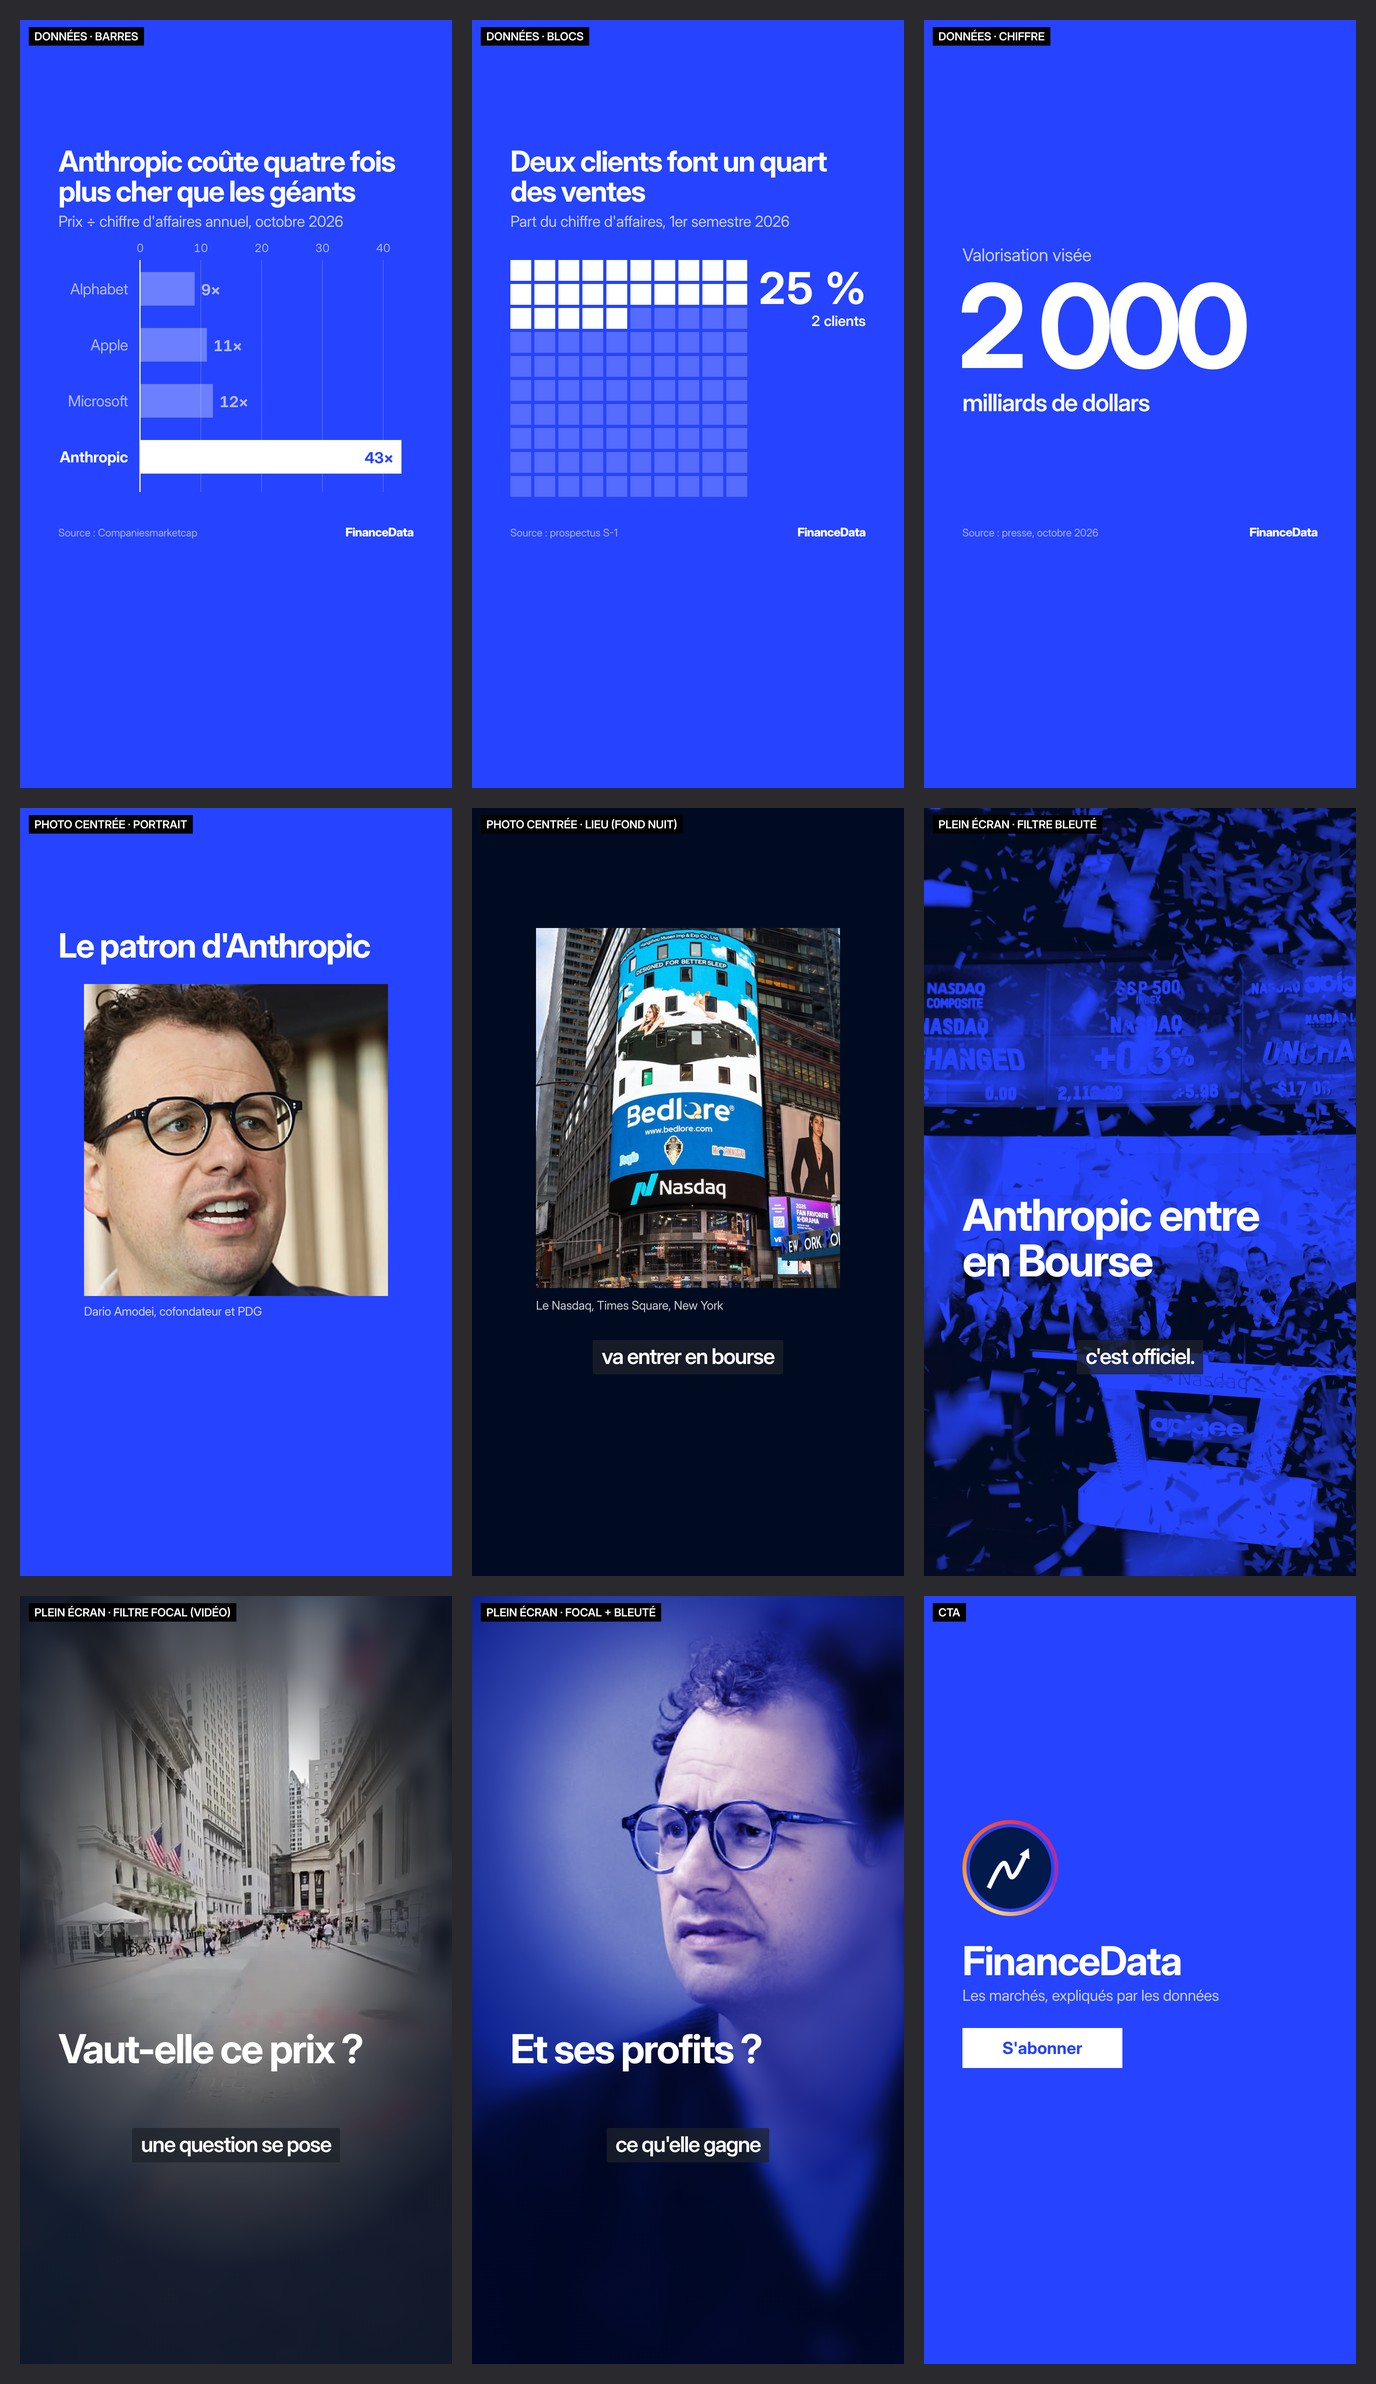
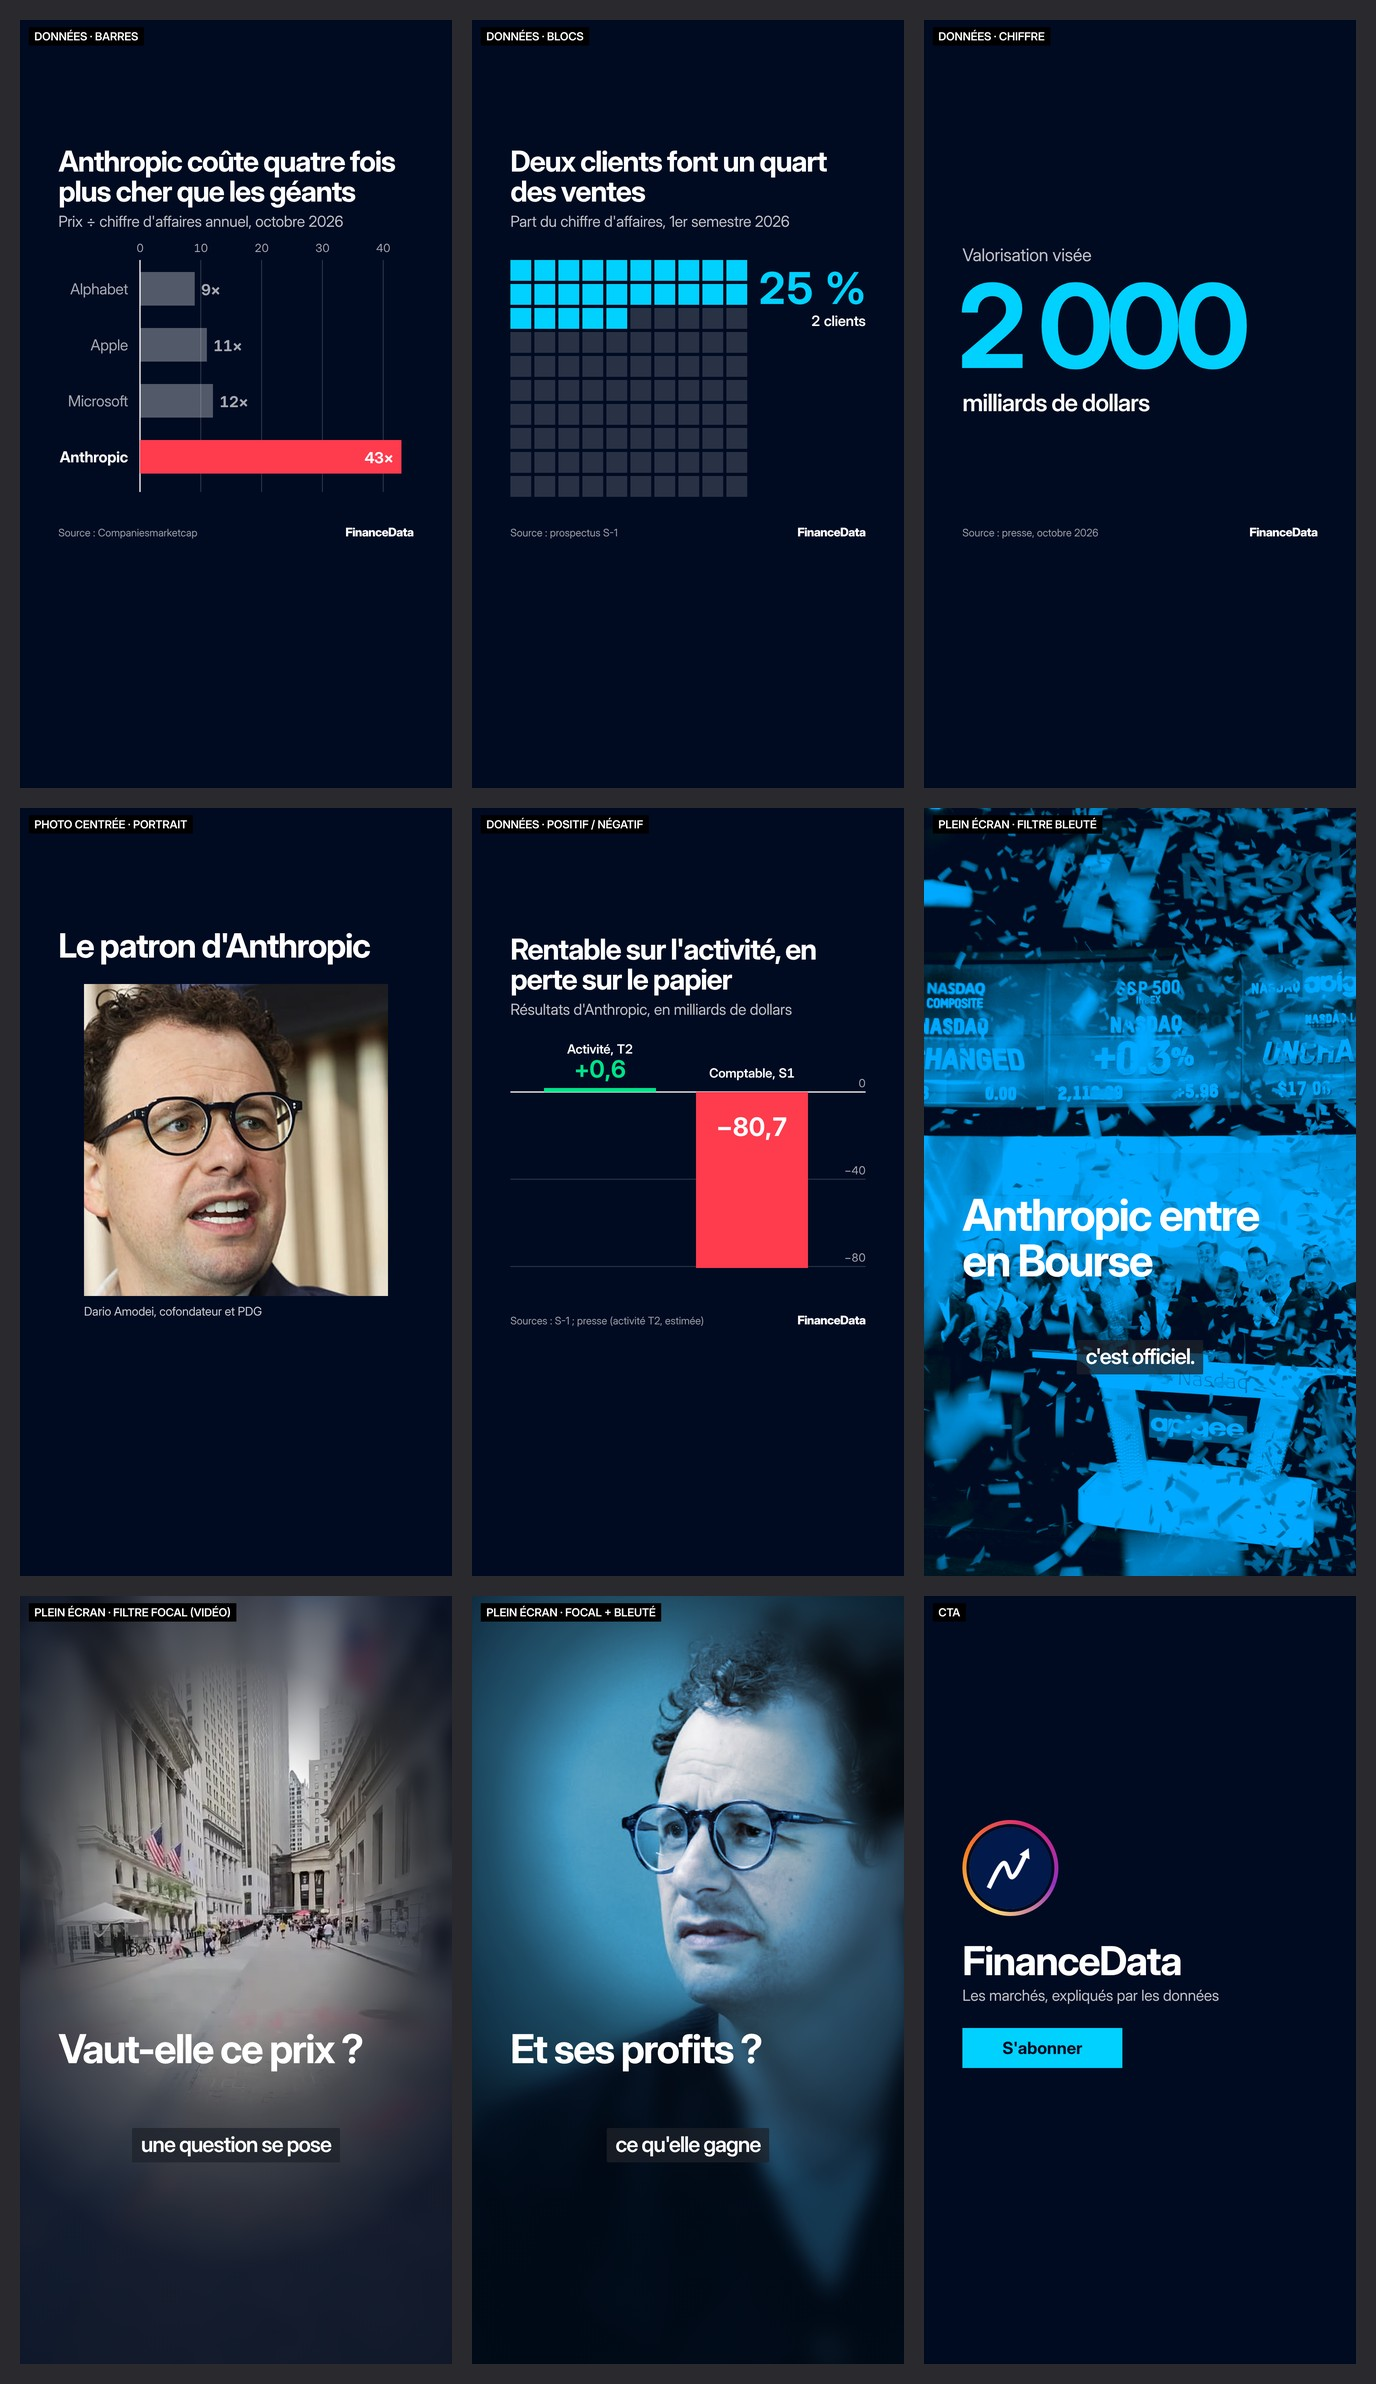
Fond bleu nuit #000B22 avec accents vifs cyan, vert, rouge
Claude-Session: https://claude.ai/code/session_0172khLHKtjafTGZdmNpPSJZ

diff --git a/financedata-univers/branding-signal/planche-vif.html b/financedata-univers/branding-signal/planche-vif.html
@@ -4,13 +4,14 @@
 <meta charset="UTF-8">
 <title>FinanceData · Fonds vifs et scènes images</title>
 <style>
-  /* Fond uni bleu électrique (#2643FF), texte blanc. Données : le point à retenir en blanc plein, le reste en blanc translucide.
+  /* Fond bleu nuit très sombre (#000B22), texte blanc, trois couleurs vives : cyan (#00D1FF) pour l'info clé,
+     vert (#00E28A) pour un gain, rouge (#FF3B4E) pour une alerte. Le reste en blanc translucide.
      Scènes images : soit une photo au centre d'un fond uni avec une petite légende, soit une photo/vidéo plein écran
      passée au filtre bleuté (bichromie) ou au filtre focal (centre net, bords flous et assombris). */
   @font-face { font-family: "Display"; src: url("fonts/inter-display-latin-var.woff2"); font-weight: 100 900; }
   * { margin: 0; padding: 0; box-sizing: border-box; }
   body { background: #2a2a2e; display: grid; grid-template-columns: repeat(3, 1080px); gap: 60px; padding: 60px; width: 3420px; font-family: "Display"; font-variation-settings: "opsz" 32; -webkit-font-smoothing: antialiased; }
-  .f { position: relative; width: 1080px; height: 1920px; overflow: hidden; background: #2643ff; color: #fff; }
+  .f { position: relative; width: 1080px; height: 1920px; overflow: hidden; background: #000b22; color: #fff; }
   .f.nuit { background: #000b22; }
   .a { position: absolute; }
   .ti { position: absolute; left: 96px; right: 96px; font-weight: 700; letter-spacing: -.035em; line-height: 1.04; }
@@ -19,7 +20,7 @@
   .ft { position: absolute; left: 96px; right: 96px; top: 1262px; display: flex; justify-content: space-between; align-items: baseline; font-size: 26px; color: rgba(255,255,255,.6); }
   .ft b { font-weight: 800; font-size: 30px; letter-spacing: -.03em; color: #fff; }
   /* filtre bleuté : bichromie bleu électrique / bleu nuit */
-  .duo { position: absolute; inset: 0; background: #2643ff; }
+  .duo { position: absolute; inset: 0; background: #00a8ff; }
   .duo img { position: absolute; inset: 0; width: 100%; height: 100%; object-fit: cover; filter: grayscale(1) contrast(1.2) brightness(1.1); mix-blend-mode: multiply; }
   .duo::after { content: ""; position: absolute; inset: 0; background: #000b22; mix-blend-mode: lighten; }
   /* filtre focal : copie floutée en fond, copie nette masquée au centre, vignette */
@@ -28,7 +29,7 @@
   .foc .bl { filter: blur(22px) brightness(.7) saturate(.9); transform: scale(1.08); }
   .foc .sh { -webkit-mask-image: radial-gradient(ellipse 46% 30% at 50% var(--cy, 40%), #000 55%, transparent 100%); mask-image: radial-gradient(ellipse 46% 30% at 50% var(--cy, 40%), #000 55%, transparent 100%); }
   .foc::after { content: ""; position: absolute; inset: 0; background: radial-gradient(ellipse 70% 50% at 50% var(--cy, 40%), rgba(0,11,34,0) 40%, rgba(0,11,34,.75) 100%); }
-  .tint { position: absolute; inset: 0; background: #2643ff; mix-blend-mode: color; opacity: .55; }
+  .tint { position: absolute; inset: 0; background: #00a8ff; mix-blend-mode: color; opacity: .5; }
   .cap { position: absolute; left: 0; right: 0; top: 1330px; text-align: center; }
   .cap span { display: inline-block; padding: 8px 22px 13px; border-radius: 4px; background: rgba(30,34,42,.74); font-weight: 600; font-size: 54px; letter-spacing: -.04em; color: #fff; }
   svg { position: absolute; overflow: visible; }
@@ -53,7 +54,7 @@
 
 <div class="f" id="v2"><div class="lbl">DONNÉES · CHIFFRE</div>
   <div class="st" style="top:560px; font-size:44px">Valorisation visée</div>
-  <div class="a" style="left:84px; top:620px; font-weight:700; font-size:290px; letter-spacing:-.06em; line-height:1">2 000</div>
+  <div class="a" style="left:84px; top:620px; font-weight:700; font-size:290px; letter-spacing:-.06em; line-height:1; color:#00d1ff">2 000</div>
   <div class="a" style="left:96px; top:920px; font-weight:600; font-size:60px; letter-spacing:-.03em">milliards de dollars</div>
   <div class="ft"><span>Source : presse, octobre 2026</span><b>FinanceData</b></div></div>
 
@@ -64,11 +65,11 @@
   <div class="leg" style="left:160px; top:1240px">Dario Amodei, cofondateur et PDG</div>
 </div>
 
-<div class="f nuit" id="v4"><div class="lbl">PHOTO CENTRÉE · LIEU (FOND NUIT)</div>
-  <img class="a" src="img/nasdaq-tour.jpg" style="left:160px; top:300px; width:760px; height:900px; object-fit:cover; object-position:50% 40%">
-  <div class="leg" style="left:160px; top:1225px">Le Nasdaq, Times Square, New York</div>
-  <div class="cap"><span>va entrer en bourse</span></div>
-</div>
+<div class="f" id="v4"><div class="lbl">DONNÉES · POSITIF / NÉGATIF</div>
+  <div class="ti" style="top:316px; font-size:72px">Rentable sur l'activité, en perte sur le papier</div>
+  <div class="st" style="top:480px">Résultats d'Anthropic, en milliards de dollars</div>
+  <svg id="g4" width="1080" height="700" style="left:0; top:540px"></svg>
+  <div class="ft"><span>Sources : S-1 ; presse (activité T2, estimée)</span><b>FinanceData</b></div></div>
 
 <!-- PLEIN ÉCRAN · FILTRE BLEUTÉ -->
 <div class="f" id="v5"><div class="lbl">PLEIN ÉCRAN · FILTRE BLEUTÉ</div>
@@ -93,27 +94,34 @@
 
 <!-- CTA -->
 <div class="f" id="v8"><div class="lbl">CTA</div>
-  <div class="a" style="left:96px; top:560px; width:240px; height:240px; border-radius:50%; padding:10px; background:conic-gradient(from 200deg, #feda75, #fa7e1e, #d62976, #962fbf, #feda75)"><div style="width:100%;height:100%;border-radius:50%;overflow:hidden;border:8px solid #2643ff"><img src="img/logo-financedata.png" style="width:100%;height:100%;display:block"></div></div>
+  <div class="a" style="left:96px; top:560px; width:240px; height:240px; border-radius:50%; padding:10px; background:conic-gradient(from 200deg, #feda75, #fa7e1e, #d62976, #962fbf, #feda75)"><div style="width:100%;height:100%;border-radius:50%;overflow:hidden;border:8px solid #000b22"><img src="img/logo-financedata.png" style="width:100%;height:100%;display:block"></div></div>
   <div class="ti" style="top:860px; font-size:100px">FinanceData</div>
   <div class="st" style="top:975px">Les marchés, expliqués par les données</div>
-  <div class="a" style="left:96px; top:1080px; width:400px; height:100px; background:#fff; color:#2643ff; font-weight:700; font-size:42px; text-align:center; line-height:100px">S'abonner</div>
+  <div class="a" style="left:96px; top:1080px; width:400px; height:100px; background:#00d1ff; color:#000b22; font-weight:700; font-size:42px; text-align:center; line-height:100px">S'abonner</div>
 </div>
 
 <script>
-var NS = "http://www.w3.org/2000/svg", W = "#fff", DIM = "rgba(255,255,255,.32)", GRID = "rgba(255,255,255,.2)", AX = "rgba(255,255,255,.65)";
+var NS = "http://www.w3.org/2000/svg", W = "#fff", CY = "#00d1ff", GR = "#00e28a", RD = "#ff3b4e", DIM = "rgba(255,255,255,.32)", GRID = "rgba(255,255,255,.2)", AX = "rgba(255,255,255,.65)";
 function el(svg, tag, a, text) { var e = document.createElementNS(NS, tag); for (var k in a) e.setAttribute(k, a[k]); if (text != null) e.textContent = text; svg.appendChild(e); return e; }
 function T(svg, x, y, s, size, fill, w, anchor) { return el(svg, "text", { x: x, y: y, "font-size": size, fill: fill, "font-weight": w || 500, "text-anchor": anchor || "start", "letter-spacing": -size * .012 }, s); }
 (function () { var g = document.getElementById("g0"), X = function (v) { return 300 + v / 45 * 684; };
   [0, 10, 20, 30, 40].forEach(function (v, i) { el(g, "line", { x1: X(v), x2: X(v), y1: 60, y2: 640, stroke: i ? GRID : W, "stroke-width": i ? 2 : 3 }); T(g, X(v), 40, String(v), 28, AX, 400, "middle"); });
   [["Alphabet", 9], ["Apple", 11], ["Microsoft", 12], ["Anthropic", 43]].forEach(function (r, i) { var y = 90 + i * 140, hi = i === 3;
-    el(g, "rect", { x: 300, y: y, width: X(r[1]) - 300, height: 84, fill: hi ? W : DIM });
+    el(g, "rect", { x: 300, y: y, width: X(r[1]) - 300, height: 84, fill: hi ? RD : DIM });
     T(g, 270, y + 56, r[0], 38, hi ? W : AX, hi ? 700 : 400, "end");
-    T(g, hi ? X(r[1]) - 20 : X(r[1]) + 16, y + 58, r[1] + "×", 38, hi ? "#2643ff" : AX, 700, hi ? "end" : "start"); });
+    T(g, hi ? X(r[1]) - 20 : X(r[1]) + 16, y + 58, r[1] + "×", 38, hi ? "#fff" : AX, 700, hi ? "end" : "start"); });
 })();
 (function () { var g = document.getElementById("g1"), s = 52, gap = 8;
   for (var i = 0; i < 100; i++) { var c = i % 10, l = Math.floor(i / 10);
-    el(g, "rect", { x: 96 + c * (s + gap), y: 60 + l * (s + gap), width: s, height: s, fill: i < 25 ? W : "rgba(255,255,255,.22)" }); }
-  T(g, 984, 170, "25 %", 110, W, 700, "end"); T(g, 984, 225, "2 clients", 36, W, 600, "end");
+    el(g, "rect", { x: 96 + c * (s + gap), y: 60 + l * (s + gap), width: s, height: s, fill: i < 25 ? CY : "rgba(255,255,255,.16)" }); }
+  T(g, 984, 170, "25 %", 110, CY, 700, "end"); T(g, 984, 225, "2 clients", 36, W, 600, "end");
+})();
+(function () { var g = document.getElementById("g4"), Z = 170, K = 440 / 80.7;
+  [0, -40, -80].forEach(function (v, i) { el(g, "line", { x1: 96, x2: 984, y1: Z - v * K, y2: Z - v * K, stroke: i ? GRID : W, "stroke-width": i ? 2 : 3 }); T(g, 984, Z - v * K - 12, v ? "−" + -v : "0", 28, AX, 400, "end"); });
+  el(g, "rect", { x: 180, y: Z - 10, width: 280, height: 10, fill: GR });
+  T(g, 320, Z - 36, "+0,6", 60, GR, 700, "middle"); T(g, 320, Z - 96, "Activité, T2", 32, W, 600, "middle");
+  el(g, "rect", { x: 560, y: Z, width: 280, height: 80.7 * K, fill: RD });
+  T(g, 700, Z + 110, "−80,7", 64, "#fff", 700, "middle"); T(g, 700, Z - 36, "Comptable, S1", 32, W, 600, "middle");
 })();
 </script>
 </body>
